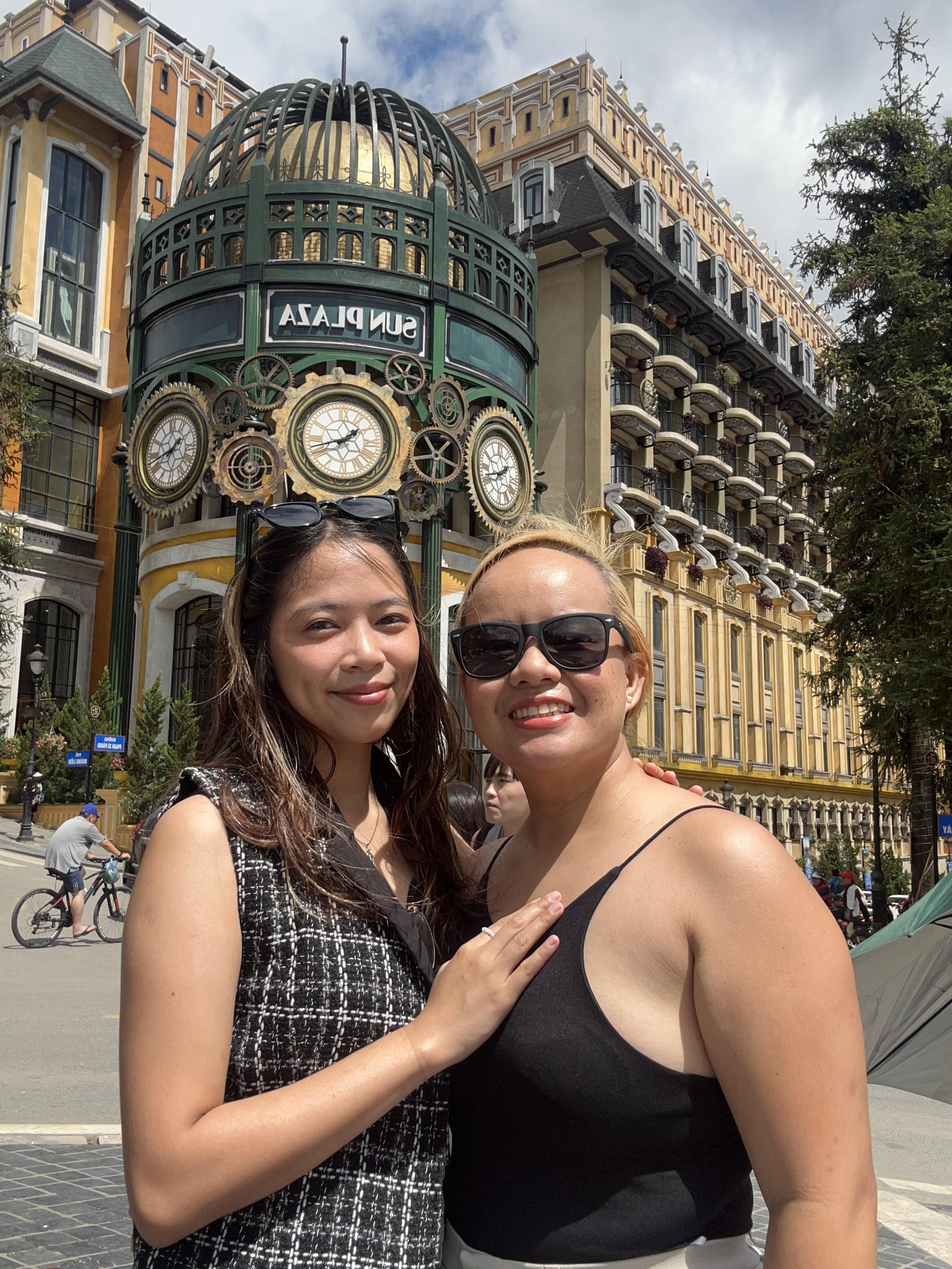
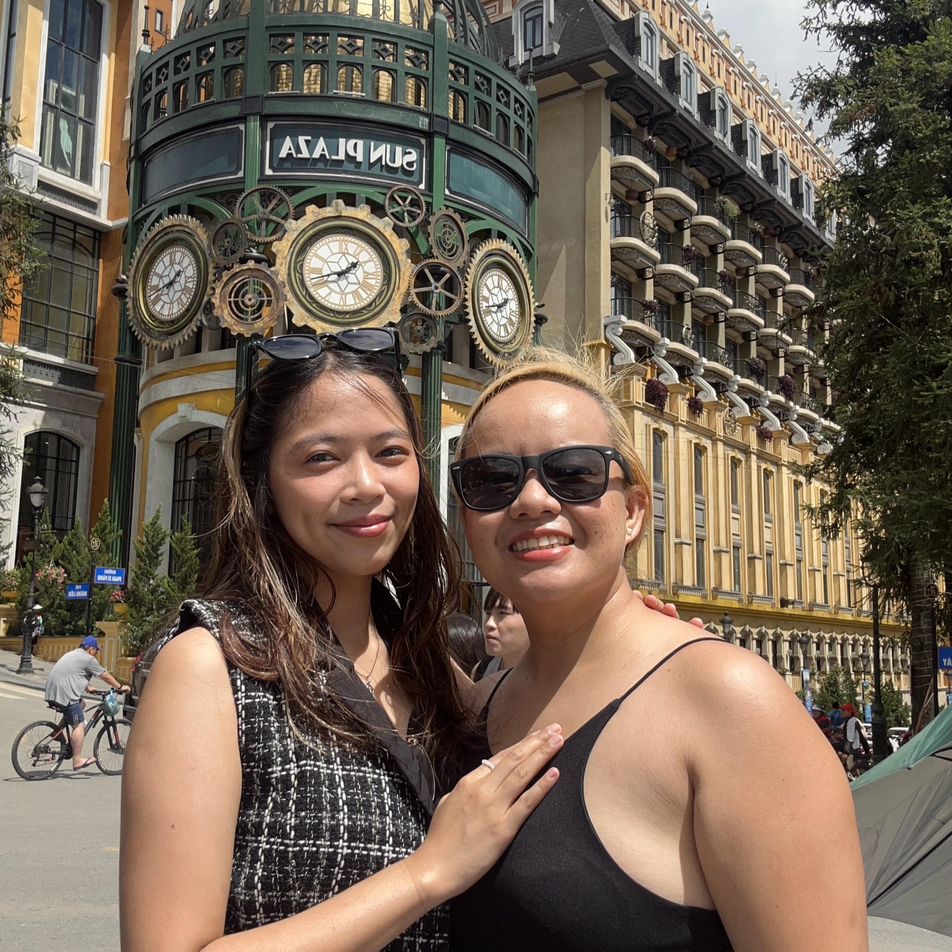
game 2.2

diff --git a/src/components/games/Game2.tsx b/src/components/games/Game2.tsx
@@ -1,4 +1,4 @@
-import { useMemo, useState } from "react";
+import { useState, type ReactNode } from "react";
 import { RotateCcw } from "lucide-react";
 import { launchCelebrationConfetti } from "@/lib/confetti";
 
@@ -7,15 +7,27 @@ const IMAGE = "/images/puzzle/game2.jpg";
 const SIZE = 3;
 
 function shuffleBoard() {
-  const arr = [...Array(9).keys()];
+  let board = [...Array(9).keys()];
 
-  // random legal shuffle
-  for (let i = arr.length - 2; i > 0; i--) {
-    const j = Math.floor(Math.random() * (i + 1));
-    [arr[i], arr[j]] = [arr[j], arr[i]];
+  for (let i = 0; i < 200; i++) {
+    const empty = board.indexOf(8);
+
+    const neighbors: number[] = [];
+
+    const row = Math.floor(empty / SIZE);
+    const col = empty % SIZE;
+
+    if (row > 0) neighbors.push(empty - SIZE);
+    if (row < SIZE - 1) neighbors.push(empty + SIZE);
+    if (col > 0) neighbors.push(empty - 1);
+    if (col < SIZE - 1) neighbors.push(empty + 1);
+
+    const swap = neighbors[Math.floor(Math.random() * neighbors.length)];
+
+    [board[empty], board[swap]] = [board[swap], board[empty]];
   }
 
-  return arr;
+  return board;
 }
 
 export function Game2() {
@@ -25,8 +37,13 @@ export function Game2() {
 
   const [finished, setFinished] = useState(false);
 
+  const [openedEnvelope, setOpenedEnvelope] = useState(false);
+  const [showEnvelope, setShowEnvelope] = useState(false);
+
   function reset() {
     setFinished(false);
+    setShowEnvelope(false);
+    setOpenedEnvelope(false);
     setBoard(shuffleBoard());
   }
 
@@ -53,8 +70,15 @@ export function Game2() {
     setBoard(next);
 
     if (next.every((v, i) => v === i)) {
-      setFinished(true);
-      launchCelebrationConfetti();
+        setFinished(true);
+
+        setTimeout(() => {
+            launchCelebrationConfetti();
+        }, 500);
+
+        setTimeout(() => {
+            setShowEnvelope(true);
+        }, 1100);
     }
   }
 
@@ -89,22 +113,26 @@ export function Game2() {
 
   return (
     <Card>
-      <div className="w-full max-w-sm">
-
+      <div
+        className={`w-full max-w-sm transition-all duration-700 ${
+          finished
+            ? "scale-110 shadow-2xl"
+            : ""
+        }`}
+      >
         <div className="mb-4 flex justify-end">
-
           <button
             onClick={reset}
             className="rounded-full p-2 hover:bg-sky-100"
           >
             <RotateCcw size={18} />
           </button>
-
         </div>
 
         <PuzzleGrid
           board={board}
           move={move}
+          finished={finished}
         />
 
         <p className="mt-6 text-xs uppercase tracking-widest text-muted-foreground">
@@ -114,27 +142,49 @@ export function Game2() {
         <img
           src={IMAGE}
           alt=""
-          className="mx-auto mt-2 h-36 rounded-xl border object-cover opacity-80"
+          className="mx-auto mt-2 h-36 border object-cover opacity-80"
         />
 
-        {finished && (
-          <div className="mt-8 animate-soft-in rounded-2xl border bg-white p-6">
-
-            <div className="text-5xl">
-              💌
-            </div>
-
-            <p className="mt-3 text-sm uppercase tracking-widest text-sky-700">
-              Clue
-            </p>
-
-            <h2 className="mt-2 text-2xl font-bold">
-              Painting of Fruits
-            </h2>
-
+        {showEnvelope && (
+          <div
+            className={`mt-8 flex justify-center transition-all duration-500 ${
+              finished
+                ? "opacity-100 scale-100 delay-500"
+                : "opacity-0 scale-50"
+            }`}
+          >
+            <button
+              onClick={() => setOpenedEnvelope(!openedEnvelope)}
+              className={`text-6xl transition-all duration-500 hover:scale-110 active:scale-95 ${
+                openedEnvelope ? "rotate-12 scale-95" : ""
+              }`}
+            >
+              <span
+                className={`text-6xl transition-all duration-500 ${
+                  openedEnvelope ? "rotate-12 scale-95" : ""
+                }`}
+              >
+                {openedEnvelope ? "📨" : "💌"}
+              </span>
+            </button>
           </div>
         )}
 
+        {finished && openedEnvelope && (
+          <div className="animate-soft-in mt-6 rounded-3xl border border-sky-200 bg-white/90 p-6 shadow-xl backdrop-blur">
+            <p className="uppercase tracking-widest text-xs text-sky-700">
+              Clue
+            </p>
+
+            <h2 className="mt-3 text-3xl font-display text-sky-800">
+              Painting of Fruits
+            </h2>
+
+            <p className="mt-4 text-muted-foreground">
+              ❤ Go see what's waiting for you.
+            </p>
+          </div>
+        )}
       </div>
     </Card>
   );
@@ -143,45 +193,52 @@ export function Game2() {
 function PuzzleGrid({
   board,
   move,
+  finished,
 }: {
   board: number[];
   move: (i: number) => void;
+  finished: boolean;
 }) {
   return (
     <div
-      className="grid gap-1 rounded-2xl border bg-sky-50 p-1"
+      className="grid overflow-hidden rounded-2xl border"
       style={{
         gridTemplateColumns: "repeat(3,1fr)",
       }}
     >
       {board.map((tile, index) => {
+        const isEmpty = tile === 8;
+        const x = (tile % 3) * 50;
+        const y = Math.floor(tile / 3) * 50;
 
-        if (tile === 8)
+        if (isEmpty && !finished) {
           return (
             <div
               key={index}
-              className="aspect-square rounded-lg bg-sky-100"
+              className="aspect-square bg-sky-100"
             />
           );
-
-        const x = (tile % 3) * 50;
-        const y = Math.floor(tile / 3) * 50;
+        }
 
         return (
           <button
             key={index}
-            onClick={() => move(index)}
-            className="aspect-square overflow-hidden rounded-lg"
-          >
-            <div
-              className="h-full w-full"
-              style={{
-                backgroundImage: `url(${IMAGE})`,
-                backgroundSize: "300% 300%",
-                backgroundPosition: `${x}% ${y}%`,
-              }}
-            />
-          </button>
+            type="button"
+            onClick={() => {
+            if (!finished) move(index);
+            }}
+            disabled={finished}
+            className={`aspect-square ${isEmpty ? "bg-sky-100" : ""}`}
+            style={
+              !isEmpty || finished
+                ? {
+                    backgroundImage: `url(${IMAGE})`,
+                    backgroundSize: "300% 300%",
+                    backgroundPosition: `${x}% ${y}%`,
+                  }
+                : undefined
+            }
+          />
         );
       })}
     </div>
@@ -191,7 +248,7 @@ function PuzzleGrid({
 function Card({
   children,
 }: {
-  children: React.ReactNode;
+  children: ReactNode;
 }) {
   return (
     <section
@@ -210,7 +267,7 @@ function PrimaryButton({
   children,
   onClick,
 }: {
-  children: React.ReactNode;
+  children: ReactNode;
   onClick: () => void;
 }) {
   return (
